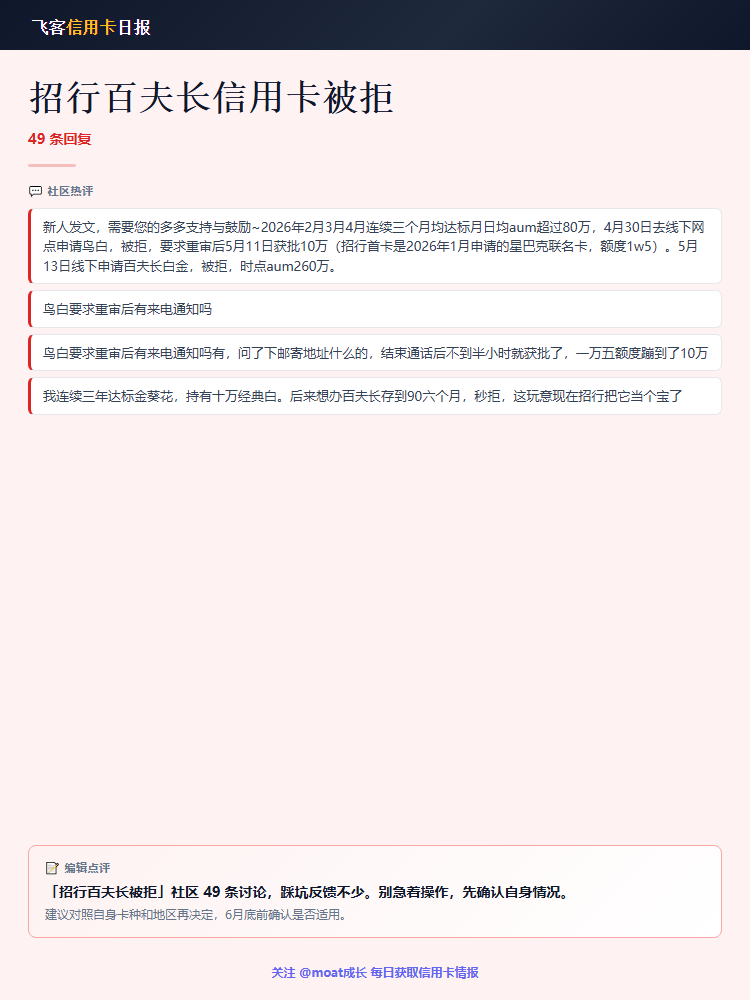
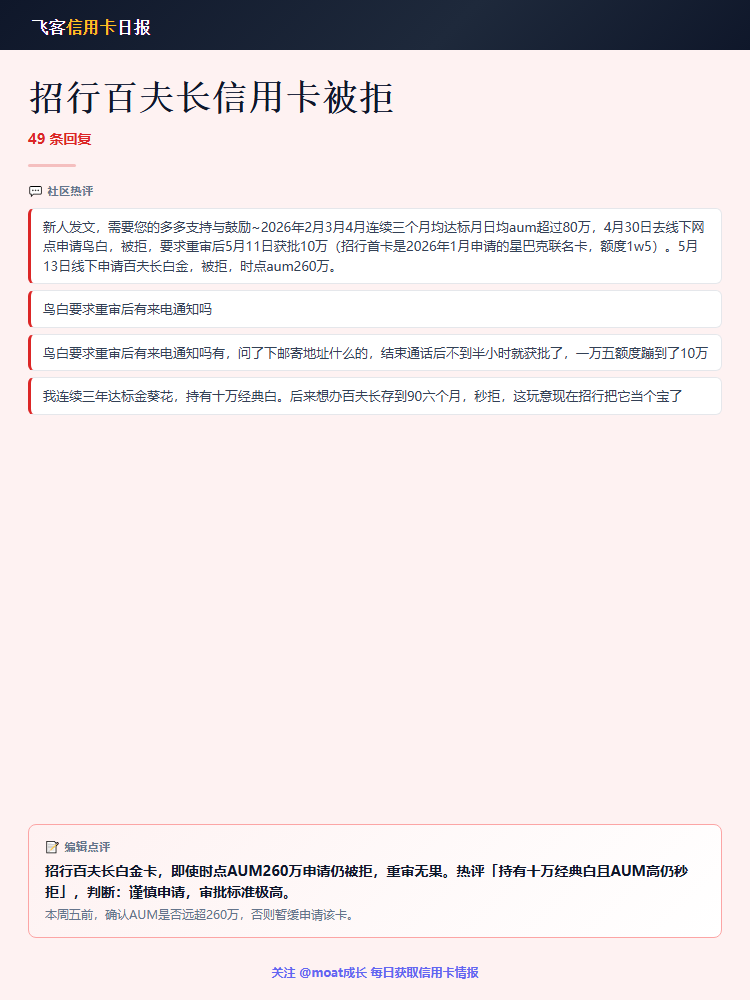
docs: RAG 集成到功能概览、项目结构、技术栈、CHANGELOG

Changed region(s): [[0.0613, 0.837, 0.92, 0.93]]

diff --git a/docs/CHANGELOG.md b/docs/CHANGELOG.md
@@ -2,6 +2,18 @@
 
 All notable changes to this project will be documented in this file.
 
+## [0.9.0] - 2026-06-04
+
+### Added
+- **RAG 历史知识库集成** — 新增 rag/ 目录，BM25 检索 390 条历史公众号文章
+- **编辑点评RAG增强** — card_gen.py _gen_llm_opinion 根据帖子 value_tag 映射搜索分类，注入历史参考到 LLM prompt
+
+### Changed
+- **项目结构** — 新增 rag/ 子目录（rag_query.py + articles_kb.json）
+
+## Contract
+RAG(rag/) integrates BM25-based historical knowledge base (390 entries) into card_gen.py's _gen_llm_opinion for richer editor notes
+
 ## [0.8.0] - 2026-06-04
 
 ### Added

diff --git a/docs/README.md b/docs/README.md
@@ -19,6 +19,7 @@
 | 分类渲染 | 关键词规则兜底，LLM 优先；生成分类分组的 HTML/Markdown 日报 |
 | 卡片生成 | 750x1000 竖屏 3:4 卡片（热门→分类精选→top3→信息图 + 微信封面），3-5 张精简输出 |
 | 编辑点评 | 抓取帖子原文+热评，LLM 生成引用热评观点+具体时间节点的行动建议 |
+| 历史知识库RAG | BM25检索390条历史公众号文章，注入编辑点评prompt增强历史纵深，rag/目录可选加载 |
 | 智能截断 | 热评/标题按句子边界截断（`。！？…`），不再断在句中 |
 | 引文清洗 | Discuz! 引用块前缀自动清理（`作者发表于 日期 时间`），热评纯净 |
 | 钩子文案 | 每张分类卡顶部增加板块定制引导语，提升阅读引导 |
@@ -41,6 +42,9 @@ flyertrss/
 │
 ├── report_tpl.html     # 日报 HTML 模板（Jinja2）
 ├── report_tpl.md       # 日报 Markdown 模板
+├── rag/                # RAG 历史知识库（BM25检索，可选）
+│   ├── rag_query.py    #   BM25 检索引擎
+│   └── articles_kb.json#   390 条历史公众号文章
 ├── template.html       # 竖屏卡片模板（带热度条 + 统计栏 + 钩子文案）
 ├── template-info.html  # 信息图卡片模板（热评 + 编辑点评）
 ├── template-top3.html  # Top3 详情卡模板（金牌主题）
@@ -147,6 +151,7 @@ pytest test/ -v          # 54 个用例，~25s（浏览器复用后更快）
 - **Python 3** + Playwright（无头浏览器抓取 & 截图，浏览器实例复用）
 - **BeautifulSoup4**（Discuz! 论坛 HTML 解析）
 - **httpx**（HTTP 请求 + LLM API 调用）
+- **BM25**（纯Python实现，零外部依赖的RAG检索，历史知识库注入编辑点评）
 - **Jinja2**（模板渲染）
 - **Pillow**（图片合成）
 - **腾讯 COS SDK**（云存储部署）